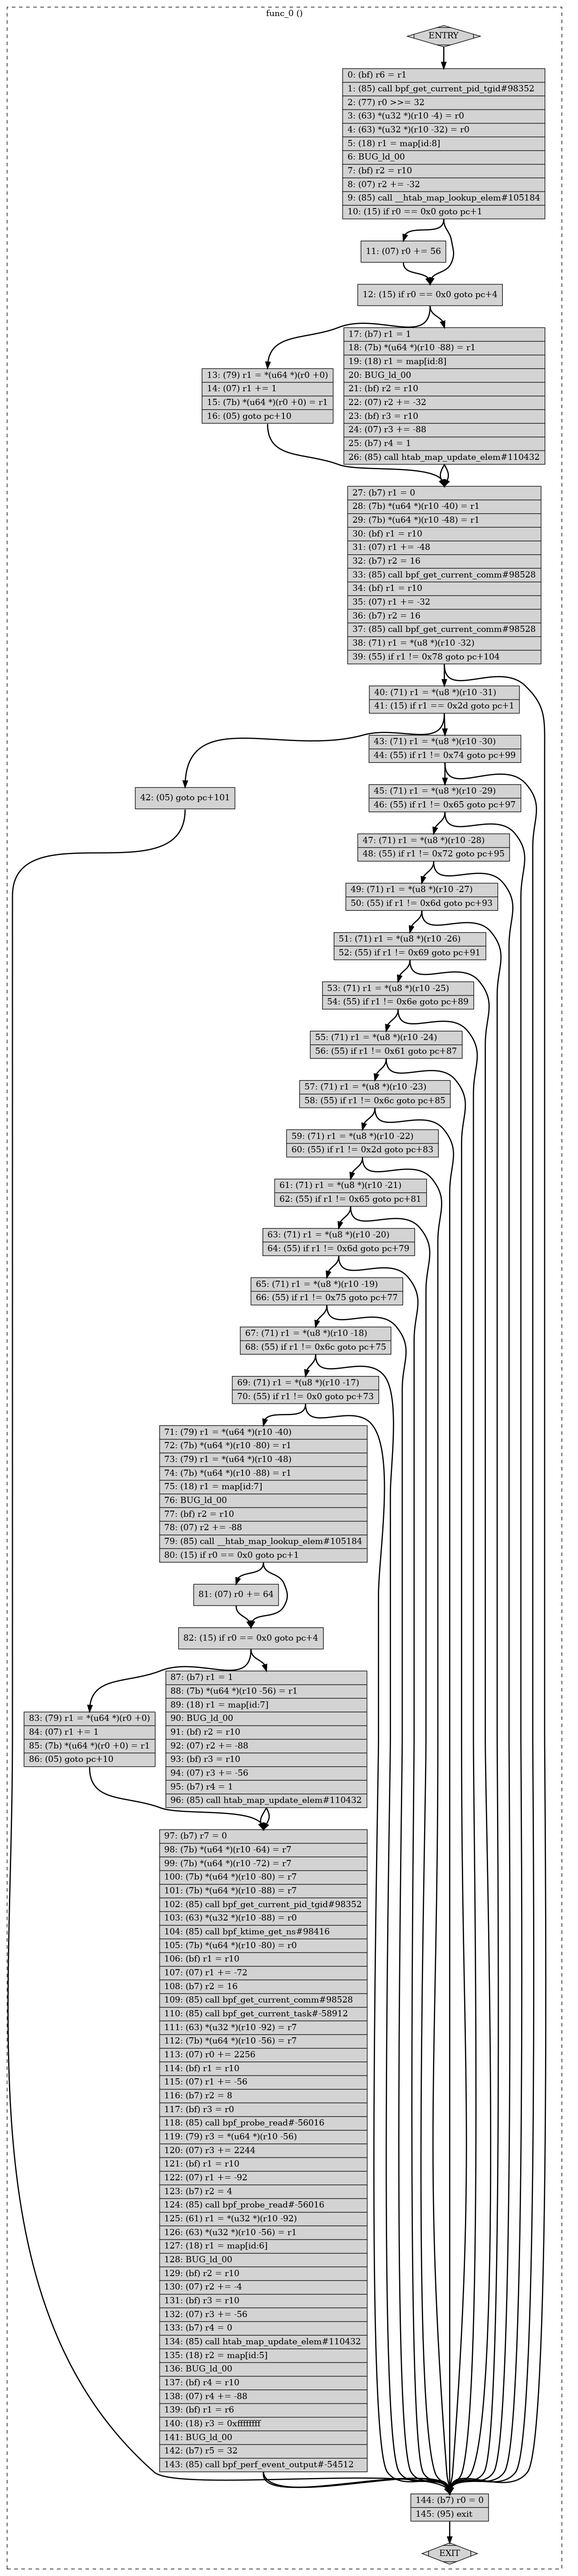
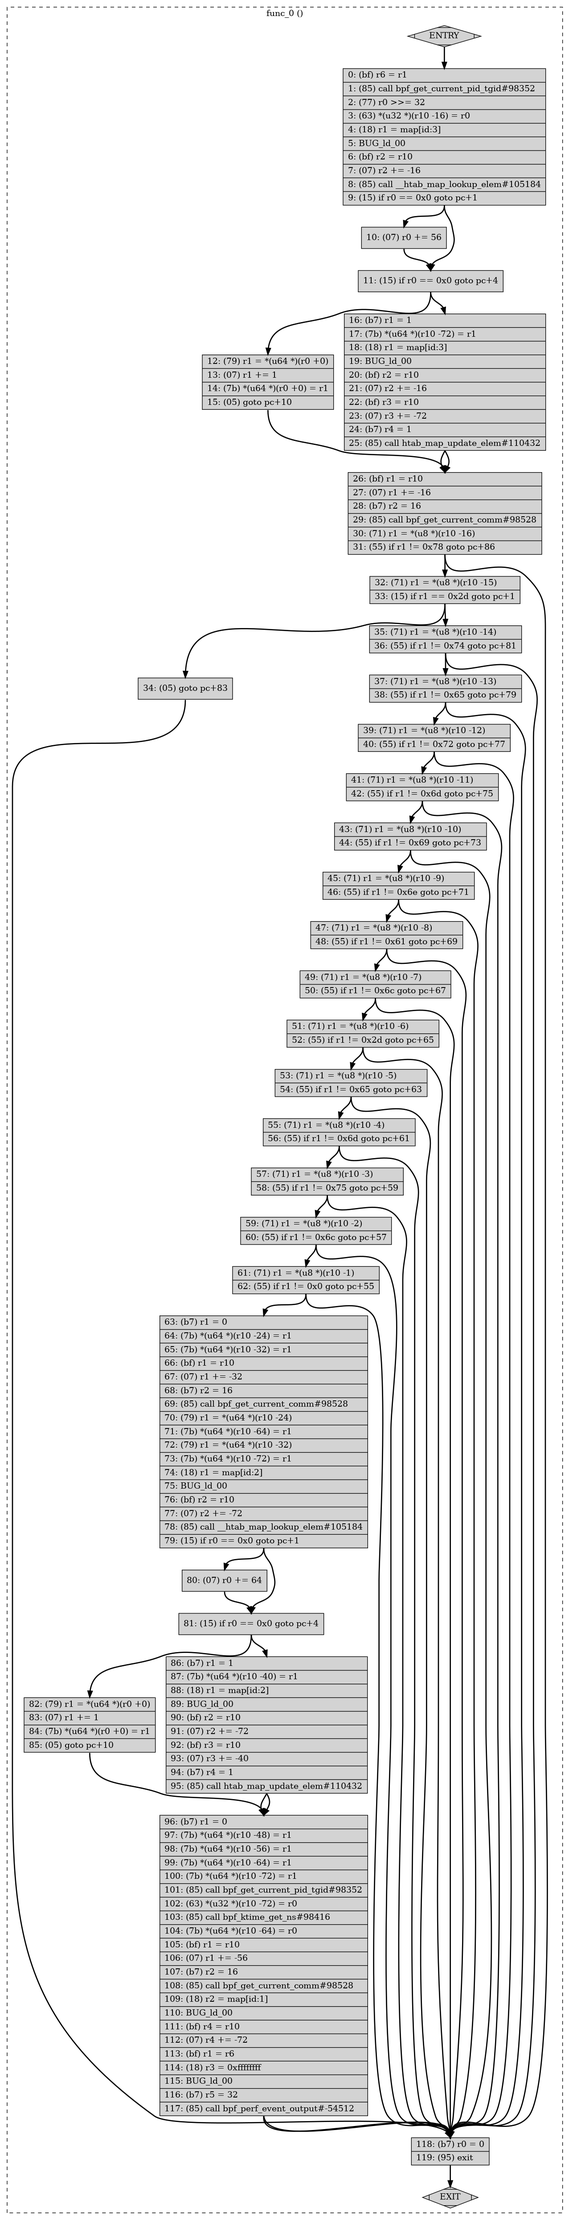
added minal.py

diff --git a/terminal/minal.py b/terminal/minal.py
@@ -12,10 +12,15 @@ prog="""
 #include <linux/string.h>
 
 
+struct key_t {
+    char name[TASK_COMM_LEN];
+    
+};
 
+BPF_HASH(map_one,u32);
 
+BPF_HASH(map_two, struct key_t);
 
-BPF_HASH(map_three,u32,u32);
 
 struct data_t {
     u32 pid;
@@ -26,24 +31,20 @@ BPF_PERF_OUTPUT(perf_map);
 
 
 
-
 int do_trace(struct pt_regs *ctx){
 
 
+    u32 pid = bpf_get_current_pid_tgid()>>32;
     
 
 
-   
+    map_one.increment(pid);
 
-  
-
-  
     char comm[TASK_COMM_LEN];
 
-   
 
+    bpf_get_current_comm(&(comm), sizeof(comm));    
 
-    bpf_get_current_comm(&(comm), sizeof(comm));
 
 
 
@@ -53,10 +54,21 @@ int do_trace(struct pt_regs *ctx){
         if(!(comm[i]==b[i]))return 0;   
     }
 
+  
+
+
+    struct key_t key = {};
+
+    bpf_get_current_comm(&(key.name), sizeof(key.name));
+
+
+    
+
+
 
    
 
-  
+    map_two.increment(key);
 
     
 
@@ -65,23 +77,11 @@ int do_trace(struct pt_regs *ctx){
 
     data.pid = bpf_get_current_pid_tgid();
     data.ts = bpf_ktime_get_ns();
-
-
     bpf_get_current_comm(&data.comm, sizeof(data.comm));
 
 
-    struct task_struct *task;
-    struct task_struct *real_parent_task;
-    u32 ppid;
-
-    task = (struct task_struct *)bpf_get_current_task();
-
-    ppid=task->real_parent->tgid;
-
-
-
-
-
+    
+   
 
     perf_map.perf_submit(ctx, &data, sizeof(data));
 
@@ -94,6 +94,8 @@ int do_trace(struct pt_regs *ctx){
 
 
 }
+
+
 
 
 """;
@@ -109,14 +111,16 @@ b.attach_kprobe(event=b.get_syscall_fnname("execve"), fn_name="do_trace")
 
 
 
-
+map_one=b['map_one']
+map_two=b['map_two']
+print(map_one)
 
 class map_two_s(ct.Structure):
     _fields_ = [('name', ct.c_char*16)
                 ]
 
 
-print("%-18s %-16s %-6s %-20s " % ("TIME(s)", "COMM", "PID", "MESSAGE"))
+print("%-18s %-16s %-6s %-20s %-5s %s" % ("TIME(s)", "COMM", "PID", "MESSAGE","PNT","CNT"))
 
 
 start = 0
@@ -126,11 +130,10 @@ def print_event(cpu, data, size):
     if start == 0:
             start = event.ts
     time_s = (float(event.ts - start)) / 1000000000
-    s=str(event.ts)
-    print(s)
-    
-    print("%-18.9f %-16s %-6d %-20s " % (time_s, event.comm, event.pid,
-         "Hello, perf_output!"))
+    s=str(event.comm)
+    if(s.find("terminal")!=-1):
+        print("%-18.9f %-16s %-6d %-20s %-5d %d" % (time_s, event.comm, event.pid,
+         "Hello, perf_output!",map_one.__getitem__(ct.c_uint32(event.pid)).value,map_two.__getitem__(map_two_s(event.comm)).value))
         
     
         
